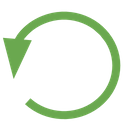
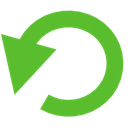
mac:wip

diff --git a/trunk/platforms/osx/logjoint.mac/ui/MainWindow/MainWindow.designer.cs b/trunk/platforms/osx/logjoint.mac/ui/MainWindow/MainWindow.designer.cs
@@ -19,6 +19,9 @@ namespace LogJoint.UI
 		MonoMac.AppKit.NSView loadedMessagesPlaceholder { get; set; }
 
 		[Outlet]
+		MonoMac.AppKit.NSToolbarItem pendingUpdateNotificationButton { get; set; }
+
+		[Outlet]
 		MonoMac.AppKit.NSView searchPanelViewPlaceholder { get; set; }
 
 		[Outlet]
@@ -33,11 +36,11 @@ namespace LogJoint.UI
 		[Outlet]
 		MonoMac.AppKit.NSSegmentedControl toolbarTabsSelector { get; set; }
 
-		[Outlet]
-		MonoMac.AppKit.NSToolbarItem updateNotificationButton { get; set; }
-
 		[Action ("OnCurrentTabSelected:")]
 		partial void OnCurrentTabSelected (MonoMac.Foundation.NSObject sender);
+
+		[Action ("OnRestartButtonClicked:")]
+		partial void OnRestartButtonClicked (MonoMac.Foundation.NSObject sender);
 		
 		void ReleaseDesignerOutlets ()
 		{
@@ -49,6 +52,11 @@ namespace LogJoint.UI
 			if (loadedMessagesPlaceholder != null) {
 				loadedMessagesPlaceholder.Dispose ();
 				loadedMessagesPlaceholder = null;
+			}
+
+			if (pendingUpdateNotificationButton != null) {
+				pendingUpdateNotificationButton.Dispose ();
+				pendingUpdateNotificationButton = null;
 			}
 
 			if (searchPanelViewPlaceholder != null) {
@@ -74,11 +82,6 @@ namespace LogJoint.UI
 			if (toolbarTabsSelector != null) {
 				toolbarTabsSelector.Dispose ();
 				toolbarTabsSelector = null;
-			}
-
-			if (updateNotificationButton != null) {
-				updateNotificationButton.Dispose ();
-				updateNotificationButton = null;
 			}
 		}
 	}

diff --git a/trunk/platforms/osx/logjoint.mac/ui/MainWindow/MainWindowAdapter.cs b/trunk/platforms/osx/logjoint.mac/ui/MainWindow/MainWindowAdapter.cs
@@ -139,18 +139,28 @@ namespace LogJoint.UI
 
 		void IView.SetCaption(string value)
 		{
-			// todo
+			Window.Title = value;
 		}
 
 		void IView.SetUpdateIconVisibility(bool value)
 		{
-			// todo
+			pendingUpdateNotificationButton.View.Hidden = !value;
 		}
 
 		bool IView.ShowRestartConfirmationDialog(string caption, string text)
 		{
-			// todo
-			return false;
+			var alert = new NSAlert ()
+				{
+					AlertStyle = NSAlertStyle.Warning,
+					MessageText = caption,
+					InformativeText = text,
+				};
+			alert.AddButton("Yes");
+			alert.AddButton("No");
+			alert.AddButton("Cancel");
+			var res = alert.RunModal ();
+
+			return res == 1000;
 		}
 
 		void IView.SetTaskbarState(LogJoint.UI.Presenters.MainForm.TaskbarState state)
@@ -214,12 +224,19 @@ namespace LogJoint.UI
 			searchResultsControlAdapter = new SearchResultsControlAdapter();
 			searchResultsControlAdapter.View.MoveToPlaceholder(searchResultsPlaceholder);
 
+			pendingUpdateNotificationButton.View.Hidden = true;
+
 			ComponentsInitializer.WireupDependenciesAndInitMainWindow(this);
 		}
 			
 		partial void OnCurrentTabSelected (NSObject sender)
 		{
 			this.tabView.SelectAt(this.toolbarTabsSelector.SelectedSegment); 
+		}
+
+		partial void OnRestartButtonClicked (NSObject sender)
+		{
+			viewEvents.OnRestartPictureClicked();
 		}
 
 		class InputFocusState: IInputFocusState

diff --git a/trunk/model/medias/LogMediaFileSystem.cs b/trunk/model/medias/LogMediaFileSystem.cs
@@ -66,7 +66,7 @@ namespace LogJoint.LogMedia
 						throw new ObjectDisposedException(GetType().Name);
 					}
 
-#if !SILVERLIGHT && !MONO
+#if !SILVERLIGHT && !MONOMAC
 					// Try to detect the time via file handle. It is faster than File.GetLastWriteTime()
 					long created, modified, accessed;
 					if (GetFileTime(this.SafeFileHandle, out created, out accessed, out modified))
@@ -91,7 +91,7 @@ namespace LogJoint.LogMedia
 						throw new ObjectDisposedException(GetType().Name);
 					}
 
-#if !SILVERLIGHT && !MONO
+#if !SILVERLIGHT && !MONOMAC
 					if (!isOnNTFSDrive.HasValue)
 					{
 						isOnNTFSDrive = IsOnNTFSVolume(fileName);
@@ -135,7 +135,7 @@ namespace LogJoint.LogMedia
 
 			#endregion
 
-#if !SILVERLIGHT && !MONO
+#if !SILVERLIGHT && !MONOMAC
 			[System.Runtime.InteropServices.DllImport("kernel32.dll")]
 			static extern bool GetFileTime(
 				Microsoft.Win32.SafeHandles.SafeFileHandle hFile,

diff --git a/trunk/platforms/osx/logjoint.mac/App/ComponentsInitializer.cs b/trunk/platforms/osx/logjoint.mac/App/ComponentsInitializer.cs
@@ -252,7 +252,7 @@ namespace LogJoint.UI
 					dragDropHandler,
 					navHandler,
 					null,//optionsDialogPresenter,
-					null,//autoUpdater,
+					autoUpdater,
 					progressAggregator);
 				tracer.Info("main form presenter created");
 
